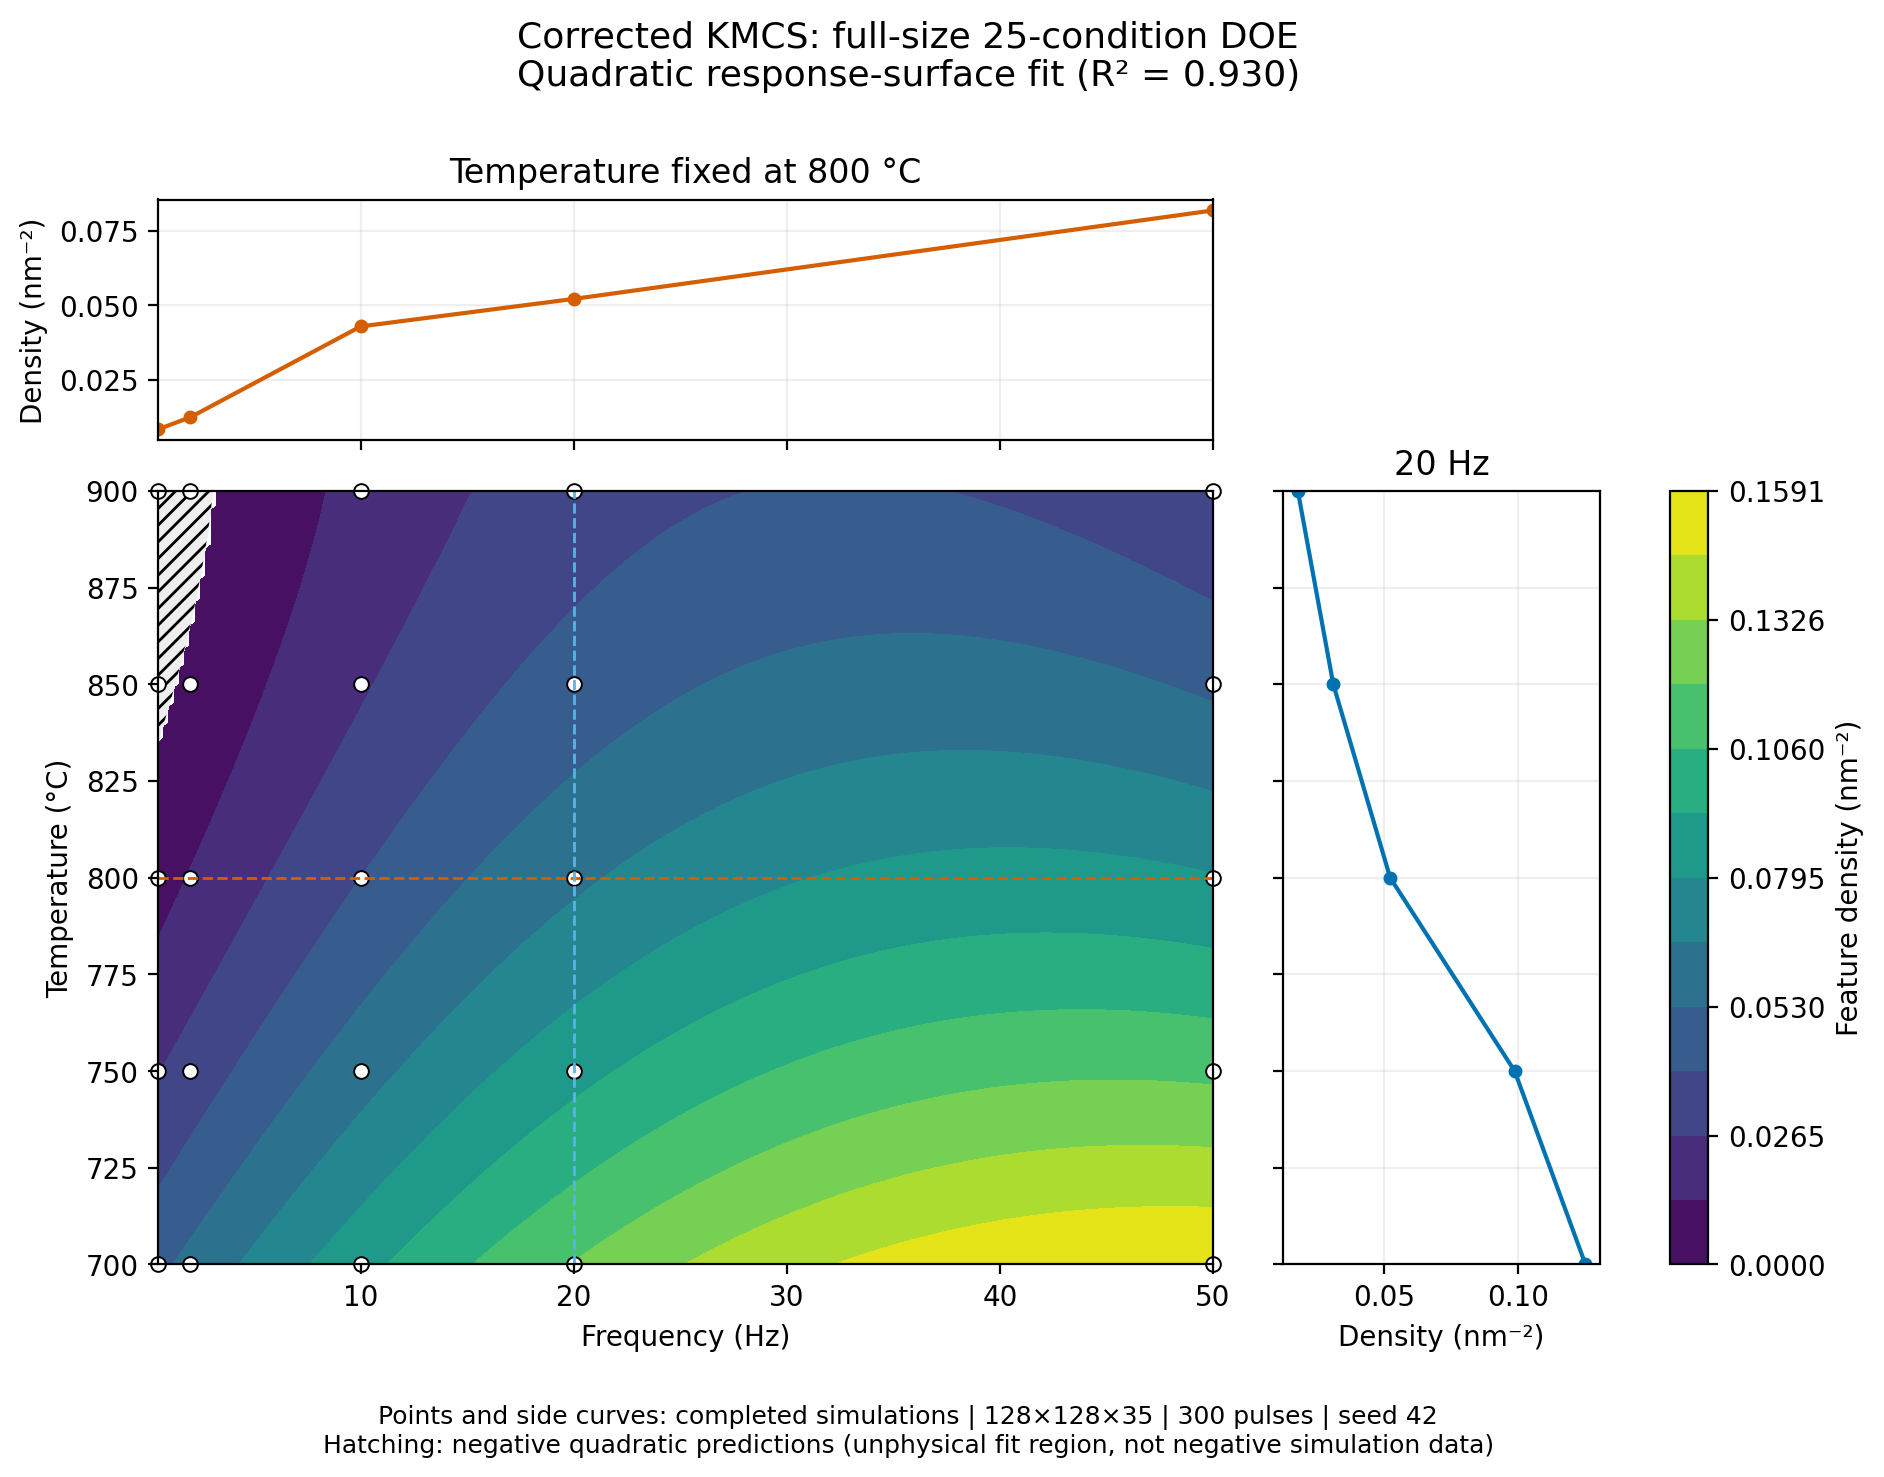
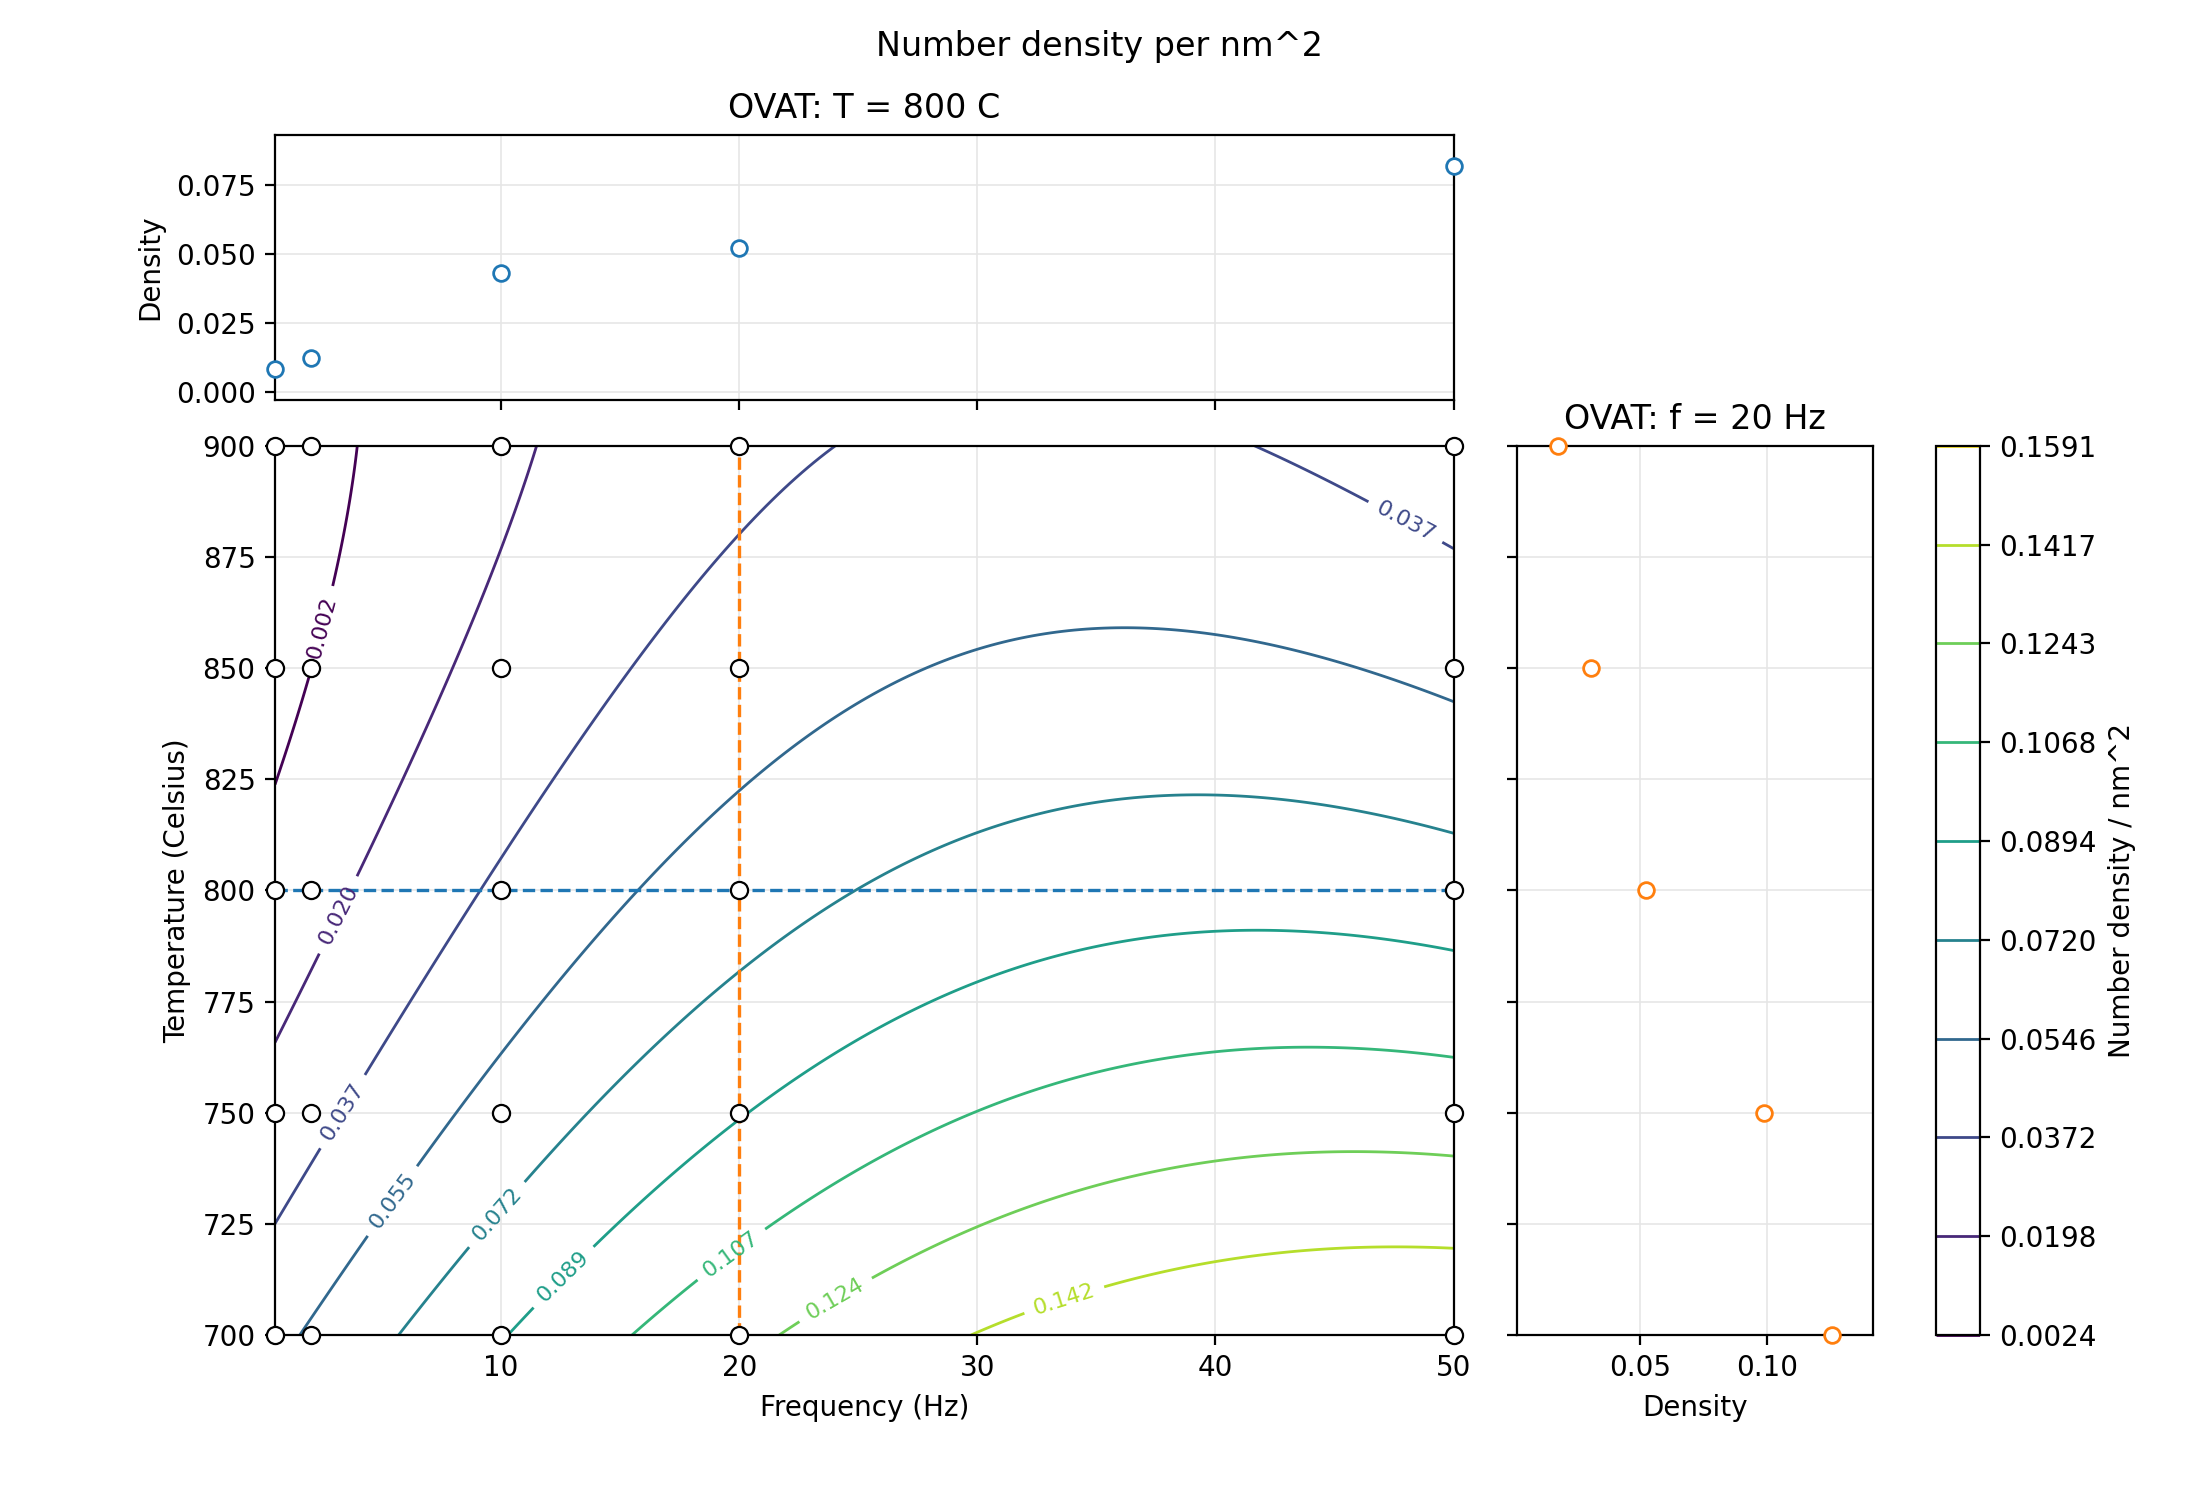
Restore original KMCS post captions and image-only layout

diff --git a/posts/projects/kmcs/kmcs.html b/posts/projects/kmcs/kmcs.html
@@ -28,7 +28,6 @@
         "url": "https://www.danielcunha.net"
       },
       "datePublished": "2026-08-11",
-      "dateModified": "2026-10-21",
       "mainEntityOfPage": "https://www.danielcunha.net/posts/projects/kmcs/kmcs.html",
       "image": "https://www.danielcunha.net/posts/projects/kmcs/thumb.png"
     }
@@ -61,8 +60,8 @@
 
         <section class="post-section">
             <figure class="fig-center fig-medium">
-                <img src="snapshot_2mat_3d.png?v=20261021" alt="Three-dimensional two-material morphology from the corrected KMCS run at 900 degrees Celsius and 2 Hz" loading="lazy">
-                <figcaption>A fresh two-material morphology from the corrected Python version: 900 °C, 2 Hz, 300 pulses and seed 42.</figcaption>
+                <img src="snapshot_2mat_3d.png?v=20261021b" alt="Three-dimensional KMCS morphology of a two-material thin film" loading="lazy">
+                <figcaption>An example of the three-dimensional morphology generated by the current Python version.</figcaption>
             </figure>
         </section>
 
@@ -87,7 +86,7 @@
         <section class="post-section">
             <figure class="fig-center fig-medium">
                 <img src="https://raw.githubusercontent.com/Dbuns/KMCS/main/figures/snapshot_3mat.png" alt="KMCS morphology generated with three deposited materials" loading="lazy">
-                <figcaption>The model is no longer restricted to two deposited materials. This three-material illustration is retained from the initial Python port.</figcaption>
+                <figcaption>The model is no longer restricted to two deposited materials. This example uses three.</figcaption>
             </figure>
         </section>
 
@@ -111,19 +110,8 @@
 
         <section class="post-section">
             <figure class="fig-center fig-large">
-                <img src="number_density.png?v=20261021" alt="Quadratic DOE response-surface fit to the 25 corrected full-size KMCS simulations" loading="lazy">
-                <figcaption>The original publication studied temperature and deposition frequency mostly one variable at a time. This updated DOE figure combines both parameters using the 25 completed full-size simulations; the surface is a quadratic fit, while the points and side curves are simulation data.</figcaption>
-            </figure>
-        </section>
-
-        <section class="post-section">
-            <figure class="fig-center fig-large">
-                <img src="reference_trends.png?v=20261021" alt="Corrected KMCS temperature and frequency trends compared with experiment and historical simulations" loading="lazy">
-                <figcaption>The corrected code retains the observed temperature and frequency trends without refitting the hopping energies. Each dataset is normalized independently, so this compares trends rather than absolute densities. The new grid uses 10 Hz where the original paper used 8 Hz.</figcaption>
-            </figure>
-            <figure class="fig-center fig-large">
-                <img src="doe_topviews.png?v=20261021" alt="Top views from all 25 corrected KMCS temperature and deposition-frequency conditions" loading="lazy">
-                <figcaption>All 25 final top views: 128 × 128 × 35 cells, 300 pulses and seed 42. Higher temperatures and lower frequencies allow the domains to coarsen.</figcaption>
+                <img src="number_density.png?v=20261021b" alt="KMCS Design of Experiments response surface for pillar number density" loading="lazy">
+                <figcaption>The original publication studied temperature and deposition frequency mostly one variable at a time. The new DOE workflow combines both parameters in a single response surface.</figcaption>
             </figure>
         </section>
 
